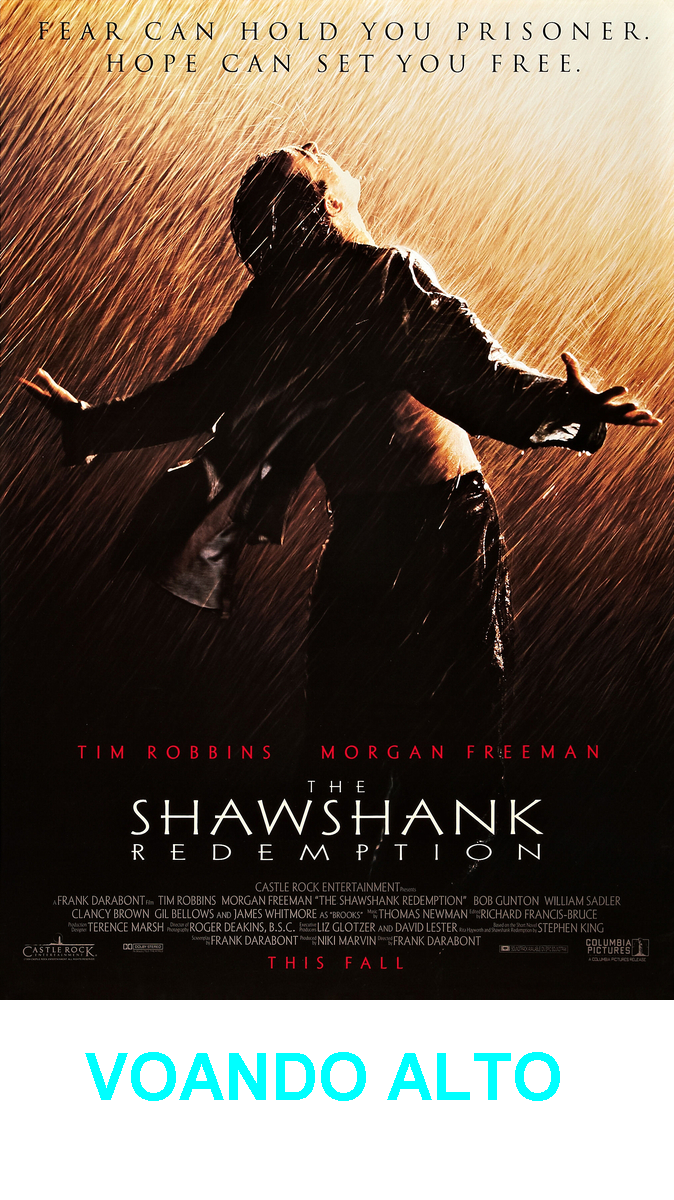
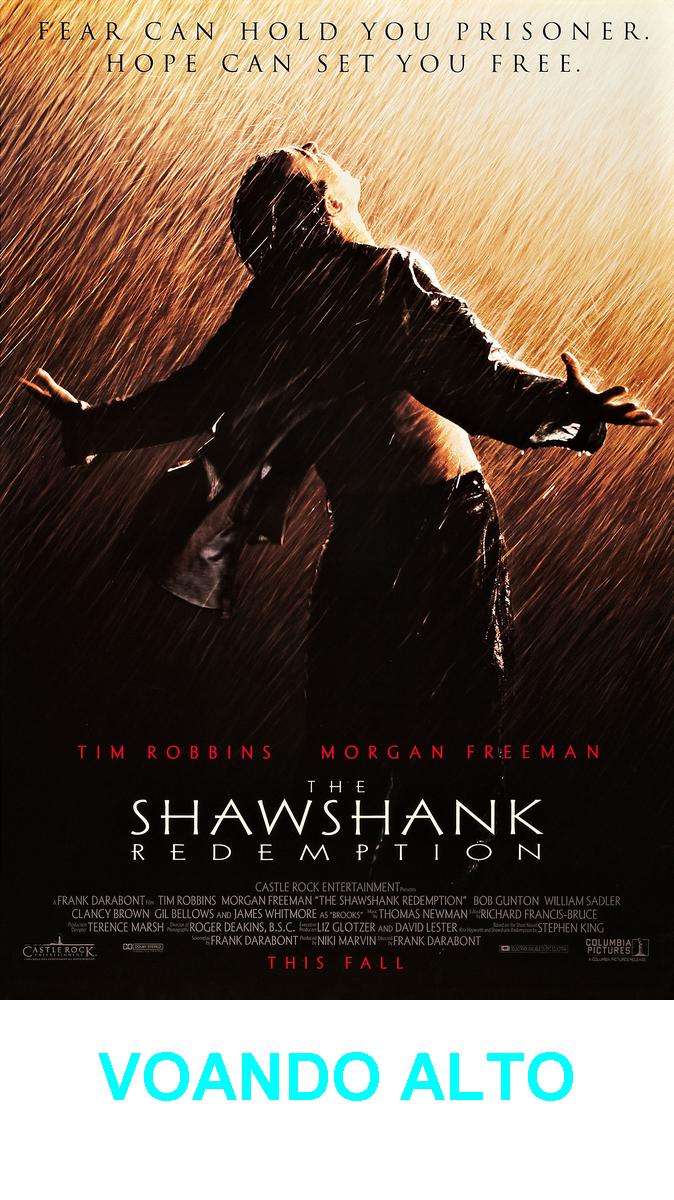
Centralizar o texto na figurinha

Changed region(s): [[0.1246, 0.8633, 0.8724, 0.925]]

diff --git a/src/StickerGenerator.java b/src/StickerGenerator.java
@@ -1,6 +1,8 @@
 import java.awt.Color;
 import java.awt.Font;
+import java.awt.FontMetrics;
 import java.awt.Graphics2D;
+import java.awt.geom.Rectangle2D;
 import java.awt.image.BufferedImage;
 import java.io.File;
 import java.io.InputStream;
@@ -32,7 +34,12 @@ public class StickerGenerator {
 		graphics.setFont(fonte);
 		
 		// escrever uma frase na nova imagem
-		graphics.drawString("VOANDO ALTO", 85, novaAltura - 100);
+		String texto = "VOANDO ALTO";
+		FontMetrics fontMetrics = graphics.getFontMetrics();
+		Rectangle2D retangulo = fontMetrics.getStringBounds(texto, graphics);
+		int larguraTexto = (int) retangulo.getWidth();
+		int posicaoTextoX = (largura - larguraTexto) / 2;
+		graphics.drawString(texto, posicaoTextoX, novaAltura - 100);
 		
 		
 		// escrever a nova imagem em um arquivo
